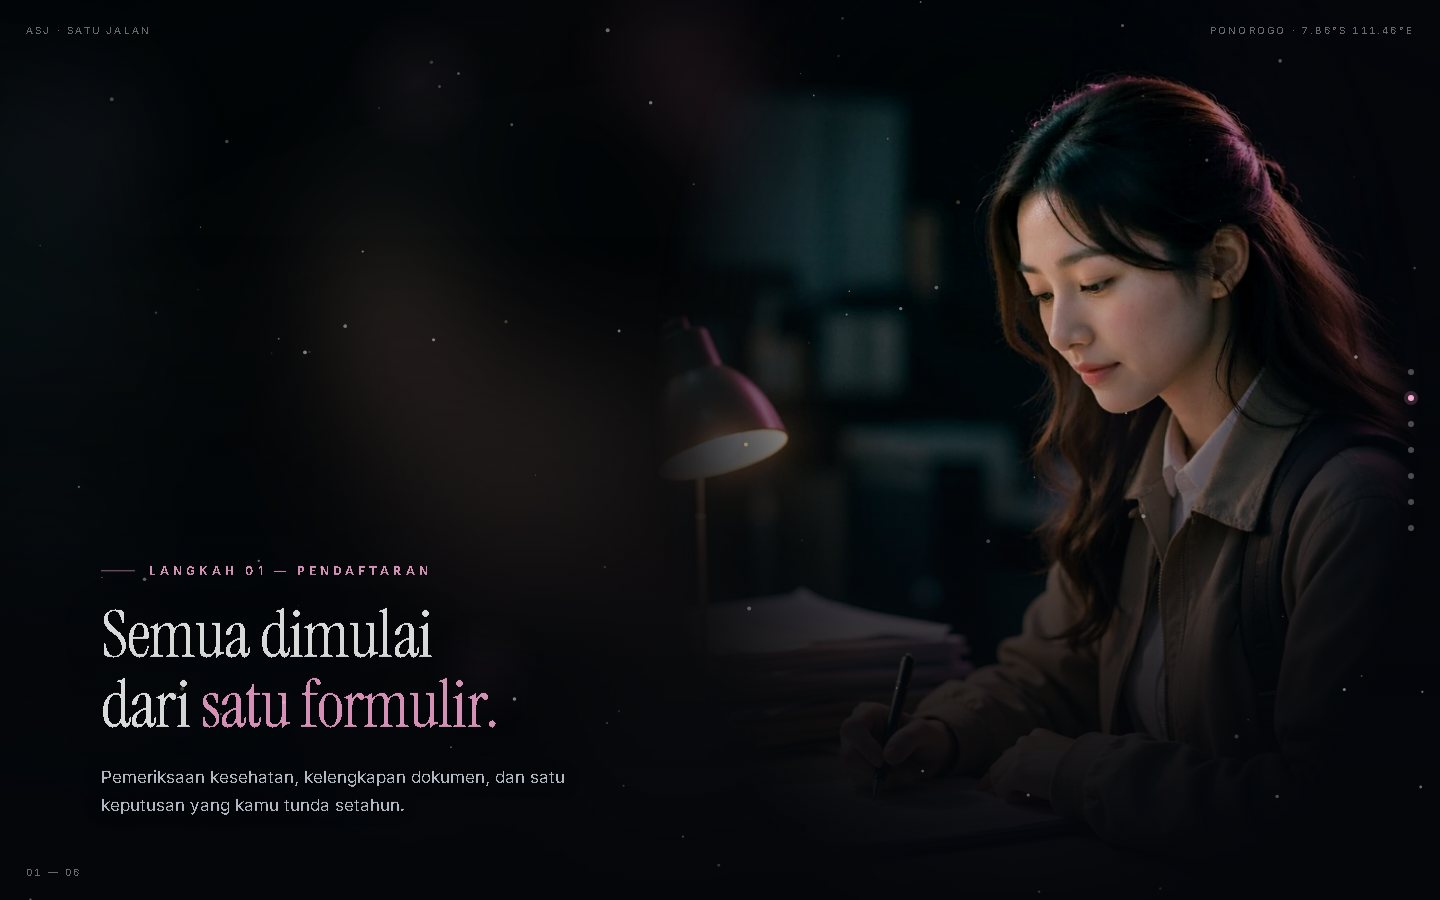
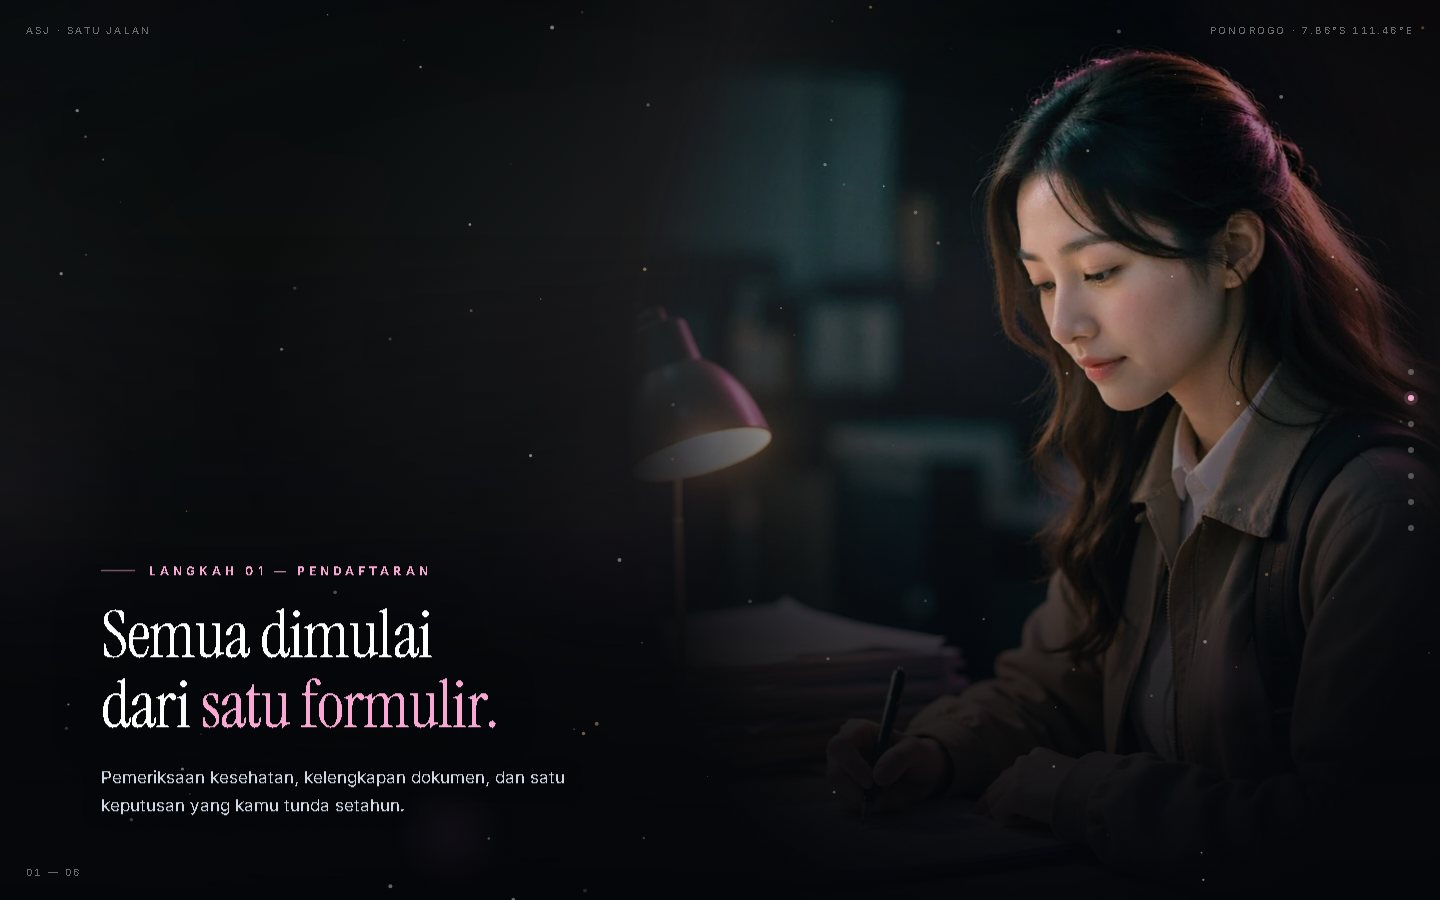
story-3d: gerak hidup tanpa kredit + HANDOFF
Kredit owner habis (pindah email), jadi seluruh pekerjaan ini nol biaya.
Video referensi asli diukur, bukan dikira: 9 potongan / 58 s, audio senyap
(-91 dB), kamera tidak pernah diam di dalam shot.

Yang ditambah supaya gambar tidak terbaca sebagai foto:
- grain hidup (canvas 160x90, diganti tiap 3 frame)
- sapuan cahaya yang bergerak di dalam gambar
- kamera lebih tegas: z -250..+320, rotasi 0,7 -> -0,6 derajat, drift X/Y

Dua perbaikan yang mengubah perilaku, bukan kosmetik:
- .bg memakai thumbnail blur 48 px (assets/blur, 11 KB) menggantikan
  filter:blur(46px) full-screen. Blur runtime menahan render loop di ~10 fps
  sehingga lerp scroll tidak pernah konvergen (p=0.285 padahal scroll 0.350)
  dan semua teks berhenti di tengah fade-in.
- lerp scroll jadi berbasis waktu (1-exp(-dt*k)) + snap saat selisih < 0.0004.
  Diukur ulang: p internal = 0.3500 = p scroll nyata.

HANDOFF.md mencatat status, temuan referensi, empat jebakan, sisa pekerjaan
(3 klip video tertunda sampai kredit siap), dan perintah regenerasi.

diff --git a/deliverables/story-3d/index.html b/deliverables/story-3d/index.html
@@ -35,7 +35,7 @@
   .scene,.type{position:absolute;inset:0;will-change:opacity,transform}
   .scene{z-index:1;transform-style:preserve-3d}
   .bg,.photo{position:absolute;will-change:transform}
-  .bg{inset:-6%}
+  .bg{inset:-6%;background-size:cover;background-position:center}
   /* potret 2:3 TIDAK dipaksa full-bleed: kalau di-cover, yang terlihat cuma
      wajah. Jadi gambar ditampilkan utuh sebagai "plate" di atas panggung gelap,
      latar diisi versi buramnya. */
@@ -54,8 +54,7 @@
   }
   /* latar = versi buram gambar, TAPI digelapkan. Tanpa brightness turun,
      gambar terang (bandara, sunrise) memutihkan seluruh panggung. */
-  .bg{filter:blur(46px) saturate(.85) brightness(.45);opacity:.62}
-  .bg img{transform:scale(1.25)}
+  .bg{opacity:.62;filter:brightness(.45) saturate(.85)}
 
   /* tepi gambar larut ke hitam → terbaca sebagai objek, bukan foto ditempel */
   .photo{
@@ -69,6 +68,13 @@
   .sub{text-shadow:0 1px 18px rgba(4,6,10,.9)}
 
   #dust{position:absolute;inset:0;z-index:3;pointer-events:none}
+  /* grain yang bergetar tiap frame — isyarat "ini rekaman", bukan foto */
+  #grain{position:absolute;inset:0;z-index:7;pointer-events:none;opacity:.055;
+    mix-blend-mode:overlay;image-rendering:pixelated}
+  /* sapuan cahaya pelan di dalam gambar */
+  .sweep{position:absolute;inset:-25%;z-index:2;pointer-events:none;mix-blend-mode:screen;
+    background:radial-gradient(38% 52% at 50% 50%,rgba(255,242,250,.10),rgba(255,242,250,0) 70%);
+    will-change:transform}
   /* WAJIB ber-position + z-index: kalau tidak, .scene (z-index:1) melukis
      DI ATAS teks dan seluruh narasi jadi nyaris tak terlihat. */
   .types{position:absolute;inset:0;z-index:4;pointer-events:none}
@@ -164,6 +170,7 @@
 <div id="stage">
   <div class="scenes" id="scenes"></div>
   <canvas id="dust"></canvas>
+  <canvas id="grain"></canvas>
   <div class="types" id="types"></div>
 </div>
 
@@ -229,8 +236,9 @@
                 : side === 'left'  ? 'left:3vw'
                 : 'left:calc(50% - 40vh)';
     s.innerHTML =
-      '<div class="bg"><img src="' + c.img + '" alt=""></div>' +
+      '<div class="bg" style="background-image:url(' + c.img.replace('assets/', 'assets/blur/') + ')"></div>' +
       '<div class="photo" style="' + place + '"><img src="' + c.img + '" alt=""></div>' +
+      '<div class="sweep"></div>' +
       '<div class="veil"></div>';
     scenesEl.appendChild(s);
 
@@ -255,6 +263,7 @@
     c._s = s; c._t = t; c._b = b;
     c._bg = s.querySelector('.bg');
     c._ph = s.querySelector('.photo');
+    c._sw = s.querySelector('.sweep');
   });
 
   /* ── debu: satu lapisan yang bertahan melewati semua babak ── */
@@ -300,6 +309,23 @@
     }
   }
 
+  /* ── grain hidup: noise kecil diperbesar, diganti tiap 2 frame ── */
+  const gcv = document.getElementById('grain');
+  const gctx = gcv.getContext('2d');
+  const GW = 160, GH = 90;
+  gcv.width = GW; gcv.height = GH;
+  const gimg = gctx.createImageData(GW, GH);
+  let gframe = 0;
+  function drawGrain() {
+    if (gframe++ % 3) return;
+    const d = gimg.data;
+    for (let i = 0; i < d.length; i += 4) {
+      const v = 110 + (Math.random() * 90 | 0);
+      d[i] = d[i + 1] = d[i + 2] = v; d[i + 3] = 255;
+    }
+    gctx.putImageData(gimg, 0, 0);
+  }
+
   /* ── kamera ── */
   const clamp = (v, a = 0, b = 1) => Math.min(b, Math.max(a, v));
   const easeInOut = p => (p < .5 ? 2 * p * p : 1 - Math.pow(-2 * p + 2, 2) / 2);
@@ -337,12 +363,20 @@
       const l = clamp(local);
       // masuk: kamera mundur sedikit (1.12 -> 1), lalu dorong pelan, lalu terbang lewat
       const entry = easeOut(clamp(l / .38));
-      const z = -150 + 190 * l + (1 - entry) * -90;
-      const sc = 1.06 + .05 * l;
-      const driftX = (i % 2 ? -1 : 1) * (1 - entry) * 26;
+      const z = -250 + 320 * l + (1 - entry) * -120;
+      const sc = 1.10 + .10 * l;
+      const dir = i % 2 ? 1 : -1;
+      const driftX = dir * (1 - entry) * 30;
+      const driftY = (1 - entry) * 16;
+      const rot = dir * (0.7 - 1.3 * l);
 
-      c._ph.style.transform = 'translate3d(' + driftX.toFixed(2) + 'px,0,' + z.toFixed(1) + 'px) scale(' + sc.toFixed(4) + ')';
-      c._bg.style.transform = 'translate3d(0,0,' + (z * .45 - 380).toFixed(1) + 'px) scale(' + (sc * 1.1).toFixed(3) + ')';
+      c._ph.style.transform =
+        'translate3d(' + driftX.toFixed(2) + 'px,' + driftY.toFixed(2) + 'px,' + z.toFixed(1) + 'px) ' +
+        'rotate(' + rot.toFixed(3) + 'deg) scale(' + sc.toFixed(4) + ')';
+      c._bg.style.transform =
+        'translate3d(' + (driftX * -.4).toFixed(1) + 'px,0,' + (z * .45 - 380).toFixed(1) + 'px) scale(' + (sc * 1.1).toFixed(3) + ')';
+      if (c._sw) c._sw.style.transform =
+        'translate3d(' + (Math.sin(l * 3.1 + i) * 130).toFixed(1) + 'px,' + (Math.cos(l * 2.4 + i) * 90).toFixed(1) + 'px,0)';
 
       // dissolve tanpa lubang: babak berikutnya menutup DI ATAS yang sekarang
       // (kalau dua-duanya 0 di batas, layar sempat hitam), lalu yang lama
@@ -370,13 +404,15 @@
       CH.forEach((x, i) => x._b.classList.toggle('on', i === best));
     }
     hintEl.style.opacity = p < .012 ? '1' : '0';
-    drawDust(t);
+    drawDust(t); drawGrain();
   }
 
   let last = performance.now();
   function loop(now) {
     target = clamp(scrollY / maxScroll);
-    smooth += (target - smooth) * .10;
+    const dtl = Math.min(.1, Math.max(.001, (now - last) / 1000));
+    smooth += (target - smooth) * (1 - Math.exp(-dtl * 9));
+    if (Math.abs(target - smooth) < .0004) smooth = target;
     if (Math.abs(target - smooth) < 1e-4) smooth = target;
     render(smooth, now / 1000);
     last = now;

diff --git a/deliverables/story-3d/HANDOFF.md b/deliverables/story-3d/HANDOFF.md
@@ -1,0 +1,126 @@
+# HANDOFF — “Satu Jalan” (sesi 2026-11-10 → 11-11)
+
+**Status:** dua desain jadi dan bisa dibuka. **Generate berbayar berhenti** — kredit
+owner habis, pindah email. Sisa pekerjaan yang butuh kredit dicatat di §5.
+
+---
+
+## 1. Dua hasil, dua bahasa
+
+| | `deliverables/story-video/` | `deliverables/story-3d/` |
+|---|---|---|
+| Bentuk | **video** 80 detik (16:9) | **website scroll** 7 babak |
+| Berkas | `index.html` (animatic), `out/*.mp4`, `out/loop-hero.gif` | `index.html`, `assets/*.webp` |
+| Aset | ilustrasi lama situs | **render baru**, wajah diambil dari hero ASJ |
+| Status | selesai, ter-commit | jalan, tinggal diisi klip video |
+
+Buka `deliverables/story-3d/index.html` di browser — scroll dari atas.
+`#3` di URL untuk lompat ke babak 4. `space` tidak dipakai di sini.
+
+---
+
+## 2. Temuan dari video referensi (file lokal owner)
+
+`F:\YTDown.com_YouTube_Media_yi7Gjy0JIns_Pioneer-corn-revolutionized_004_720p.mp4`
+— 1280×720, 60 fps, 58,05 s, 18,3 MB.
+
+Diukur, bukan dikira:
+
+| Ukuran | Hasil | Artinya |
+|---|---|---|
+| Potongan (`scene>0.06`) | **9 dalam 58 s** | rata-rata ~6,4 s per shot |
+| Audio | **−91 dB (senyap)** | tidak ada musik, tidak ada VO |
+| Gerak dalam shot | kamera **terus** bergerak | ini yang membuat terasa video, bukan foto |
+
+Konsekuensi desain: **tanpa suara**, **potongan sedikit**, **kamera tidak pernah diam**.
+Versi scroll-3d sudah mengikuti tiga hal itu.
+
+---
+
+## 3. Yang sudah jalan di `story-3d`
+
+- 7 babak × 100vh, kamera dolly di `perspective:1200px`.
+- Plate potret 2:3 dengan mask radial radius **50%** → tepi larut ke hitam.
+- Latar = thumbnail blur 48 px (`assets/blur/`, 11 KB total) — **bukan** `filter:blur()`
+  runtime. Ini bukan optimasi kosmetik: lihat §4.
+- Grain hidup (canvas 160×90, diganti tiap 3 frame), debu + bokeh, sapuan cahaya.
+- Teks bergerak di Z berbeda; dissolve tanpa lubang di batas babak.
+- Rail navigasi 7 titik, label koordinat, penghitung babak.
+
+---
+
+## 4. Empat jebakan yang sudah dibayar — jangan diulang
+
+1. **`.types` wajib `position` + `z-index`.** Tanpa itu `.scene{z-index:1}` melukis
+   **di atas** teks; seluruh narasi jadi nyaris tak terlihat dan sulit didiagnosis.
+2. **Mask radial: radius harus `50%`.** Dengan `64%`, tepi elemen ada di 78% radius
+   (masih ~35% opaque) → muncul **garis vertikal keras** di sisi gambar.
+3. **`maxScroll` diukur sekali di awal itu salah.** Tinggi dokumen berubah setelah
+   font/gambar masuk; target scroll tidak pernah sampai, dan semua teks tertangkap
+   di tengah fade-in (tampak abu-abu). Ukur ulang + hitung tiap frame.
+4. **`filter: blur(46px)` full-screen bikin render loop ~10 fps**, sehingga lerp
+   scroll tidak pernah konvergen (p=0.285 padahal scroll 0.350). Ganti dengan
+   thumbnail blur. Lerp juga harus **berbasis waktu** (`1 - exp(-dt*k)`), bukan
+   per-frame (`*0.10`).
+
+Cara memeriksa: `node deliverables/story-3d/_probe.mjs` lalu
+`node F:/tmp/diag3.mjs` (membandingkan `p` scroll nyata vs `window.__p()` internal;
+keduanya harus sama).
+
+---
+
+## 5. Yang belum — urut prioritas
+
+1. **3 klip video** (hero, latihan, tiba) untuk menghidupkan wajah: kedip, napas,
+   rambut. Biaya 50–100 kredit/klip 5 s. Owner memilih ini sebelum kredit habis.
+   Sumber: `assets/00-hero.png`, `02-latihan.png`, `06-tiba.png` (master PNG,
+   ada di disk, **tidak** di-track git).
+   Setelah jadi: ganti `.photo img` jadi `<video muted loop playsinline>` dan
+   putar hanya babak yang terlihat.
+2. **Potongan 9:16** untuk Reels/TikTok: 60 s, buang shot 01, teks naik ke
+   sepertiga atas (UI Reels menutup bawah).
+3. **Suara** — referensi senyap; kalau mau VO Bahasa Indonesia, seluruh ritme
+   harus diulang (bukan ditambahkan).
+4. **CTA** masih `<b>`, belum `<a>`. Arahkan ke formulir `/apply` dan WhatsApp.
+5. **Konfirmasi owner:** angka `47 prefektur` di babak 05 (aturan internal melarang
+   angka mitra/kandidat/keberangkatan; prefektur bukan ketiganya, tapi belum
+   dipastikan).
+
+---
+
+## 6. Aset
+
+| Berkas | Isi | Di-track? |
+|---|---|---|
+| `story-3d/assets/*.webp` | 7 render, 840 KB | ya |
+| `story-3d/assets/*.png` | master 1024×1464, 13 MB | **tidak** (`.gitignore`) |
+| `story-3d/assets/blur/*.webp` | latar blur 48 px, 11 KB | ya |
+| `story-video/out/*.mp4` | video 80 s, 12,5 MB | **tidak** (regenerable) |
+
+Wajah: semua render dibuat dari `public/assets/ilustrasi/hero-sakura@2x.webp`
+(image-to-image, `input_fidelity: high`). Wajah karangan yang sempat dibuat
+sudah dihapus — jangan dipakai lagi.
+
+---
+
+## 7. Perintah
+
+```bash
+# potret 7 babak + uji kamera/dissolve
+node deliverables/story-3d/_probe.mjs
+
+# (story-video) rekam ulang 80 s lalu encode
+node deliverables/story-video/_record.mjs
+ffmpeg -ss 1.25 -i out/page@*.webm -t 80 -vf "fps=25,format=yuv420p" \
+  -c:v libx264 -preset medium -crf 20 -movflags +faststart out/ASJ-Satu-Jalan-animatic-16x9.mp4
+```
+
+Offset `1.25` **diukur** dengan `signalstats` (hero mulai detik 7,25), bukan ditebak.
+
+---
+
+## 8. Kalau lanjut di sesi baru
+
+Mulai dari sini: buka `deliverables/story-3d/index.html`, scroll penuh sekali,
+lalu baca §5. Yang paling menentukan hasil akhir adalah **klip video 3 babak** —
+tanpa itu, gambarnya tetap still yang digerakkan kamera, bukan wajah yang hidup.
